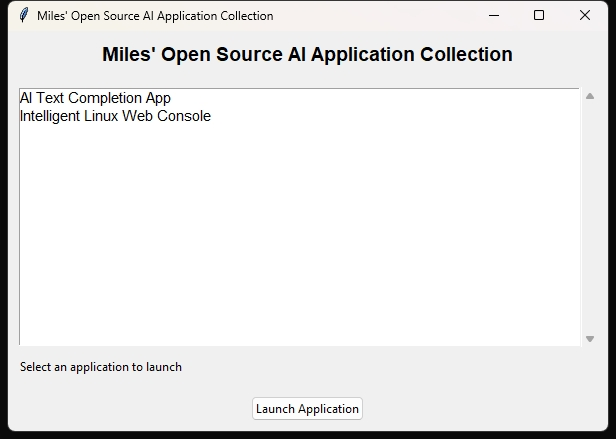
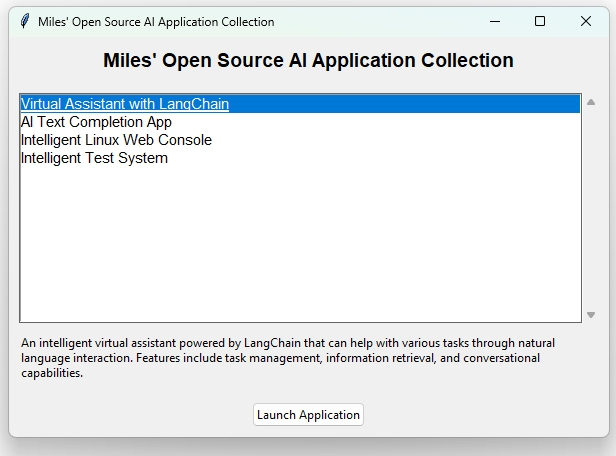
update

Changed region(s): [[0.0, 0.0, 1.0, 1.0]]

diff --git a/launcher.py b/launcher.py
@@ -78,6 +78,11 @@ class AppLauncher:
         """Populate the listbox with available applications"""
         # Dictionary to store app descriptions
         self.app_info = {
+            
+            "VirtualAssistanceLangChain": {
+                "name": "Virtual Assistant with LangChain",
+                "description": "An intelligent virtual assistant powered by LangChain that can help with various tasks through natural language interaction. Features include task management, information retrieval, and conversational capabilities."
+            },
             "auto_completion_app": {
                 "name": "AI Text Completion App",
                 "description": "A desktop application that provides real-time AI-powered text completion suggestions as you type, supporting both OpenAI and Ollama language models."

diff --git a/README.md b/README.md
@@ -15,29 +15,35 @@ The launcher provides an easy-to-use interface to browse and start any applicati
 
 ## Applications
 
-### 1. AI Text Completion App (auto_completion_app/)
+### 1. Virtual Assistant (VirtualAssistanceLangChain/)
+
+A powerful virtual assistant system with tool usage functions that support RAG, such as calendar management, note-taking capabilities for persistent memory, python code execution, and web search functionality. Built with Python, LangChain, and Tkinter, it provides a user-friendly interface for interacting with an AI assistant. The system features calendar management with event scheduling and reminders, note-taking with vector storage, web search capabilities, and persistent storage for both calendar events and knowledge base.
+
+![Virtual Assistant Screenshot](VirtualAssistanceLangChain/screenshot.png)
+
+### 2. AI Text Completion App (auto_completion_app/)
 
 A desktop application that provides real-time AI-powered text completion suggestions as you type, supporting both OpenAI and Ollama language models. The app features a clean, intuitive interface with customizable settings for different AI models and completion behaviors. Perfect for writers, developers, or anyone looking to enhance their typing efficiency with AI assistance.
 
 ![AI Text Completion App Screenshot](auto_completion_app/screenshot.png)
 
-### 2. Intelligent Linux Web Console (Linux_intelligent_web_console/)
+### 3. Intelligent Linux Web Console (Linux_intelligent_web_console/)
 
 A web-based Linux terminal console powered by LangChain and LLMs that helps users execute commands through natural language understanding. The console combines traditional terminal functionality with AI assistance to make command-line operations more accessible.
 
 ![Intelligent Linux Web Console Screenshot](Linux_intelligent_web_console/screenshot.png)
 
-### 3. Intelligent Test System (Intelligent_Test_System/)
+### 4. Intelligent Test System (Intelligent_Test_System/)
 
 A modern, AI-powered test-taking application that provides intelligent feedback and evaluation for user responses. Built with Python and Tkinter, it uses a local LLM (Qwen 2.5 32B by default) to evaluate answers based on meaning and concepts, not just exact wording. The system provides helpful hints for incorrect answers and maintains a log of errors for review, making it an excellent tool for self-assessment and learning.
 
 ![Intelligent Test System Screenshot](Intelligent_Test_System/screenshot.png)
 
-### 4. Lightning Fabric Distributed Pretraining (LightningFabricDistributedPretraining/)
+### 5. Lightning Fabric Distributed Pretraining (LightningFabricDistributedPretraining/)
 
 A flexible framework for distributed pretraining of language models using Lightning Fabric with FSDP (Fully Sharded Data Parallel) strategy. This application allows you to pretrain any Hugging Face model on any dataset with a simple YAML configuration. It supports multi-GPU and multi-node training with optimized performance for modern NVIDIA GPUs with Tensor Cores.
 
-### 5. HuggingFace Pretraining Script (HuggingFace_Pretraining/)
+### 6. HuggingFace Pretraining Script (HuggingFace_Pretraining/)
 
 A comprehensive and configurable script for pretraining language models using the HuggingFace Transformers library. This script provides a streamlined way to pretrain models on custom datasets with features including:
 
@@ -53,7 +59,7 @@ Example usage:
 accelerate launch --config_file ./default_config.yaml pretrain.py --config default_pretrain_config.yaml
 ```
 
-### 6. HuggingFace SFT Training Script (HuggingFace_SFT/)
+### 7. HuggingFace SFT Training Script (HuggingFace_SFT/)
 
 A powerful script for conducting distributed fine-tuning of language models using Supervised Fine-Tuning (SFT) with configurable parameters loaded from a YAML file.  It properly sets up the training mechanics so as no to train on input part. It is a perfect template for researchers and developers looking to fine-tune language models on their specific datasets with minimal setup.
 
